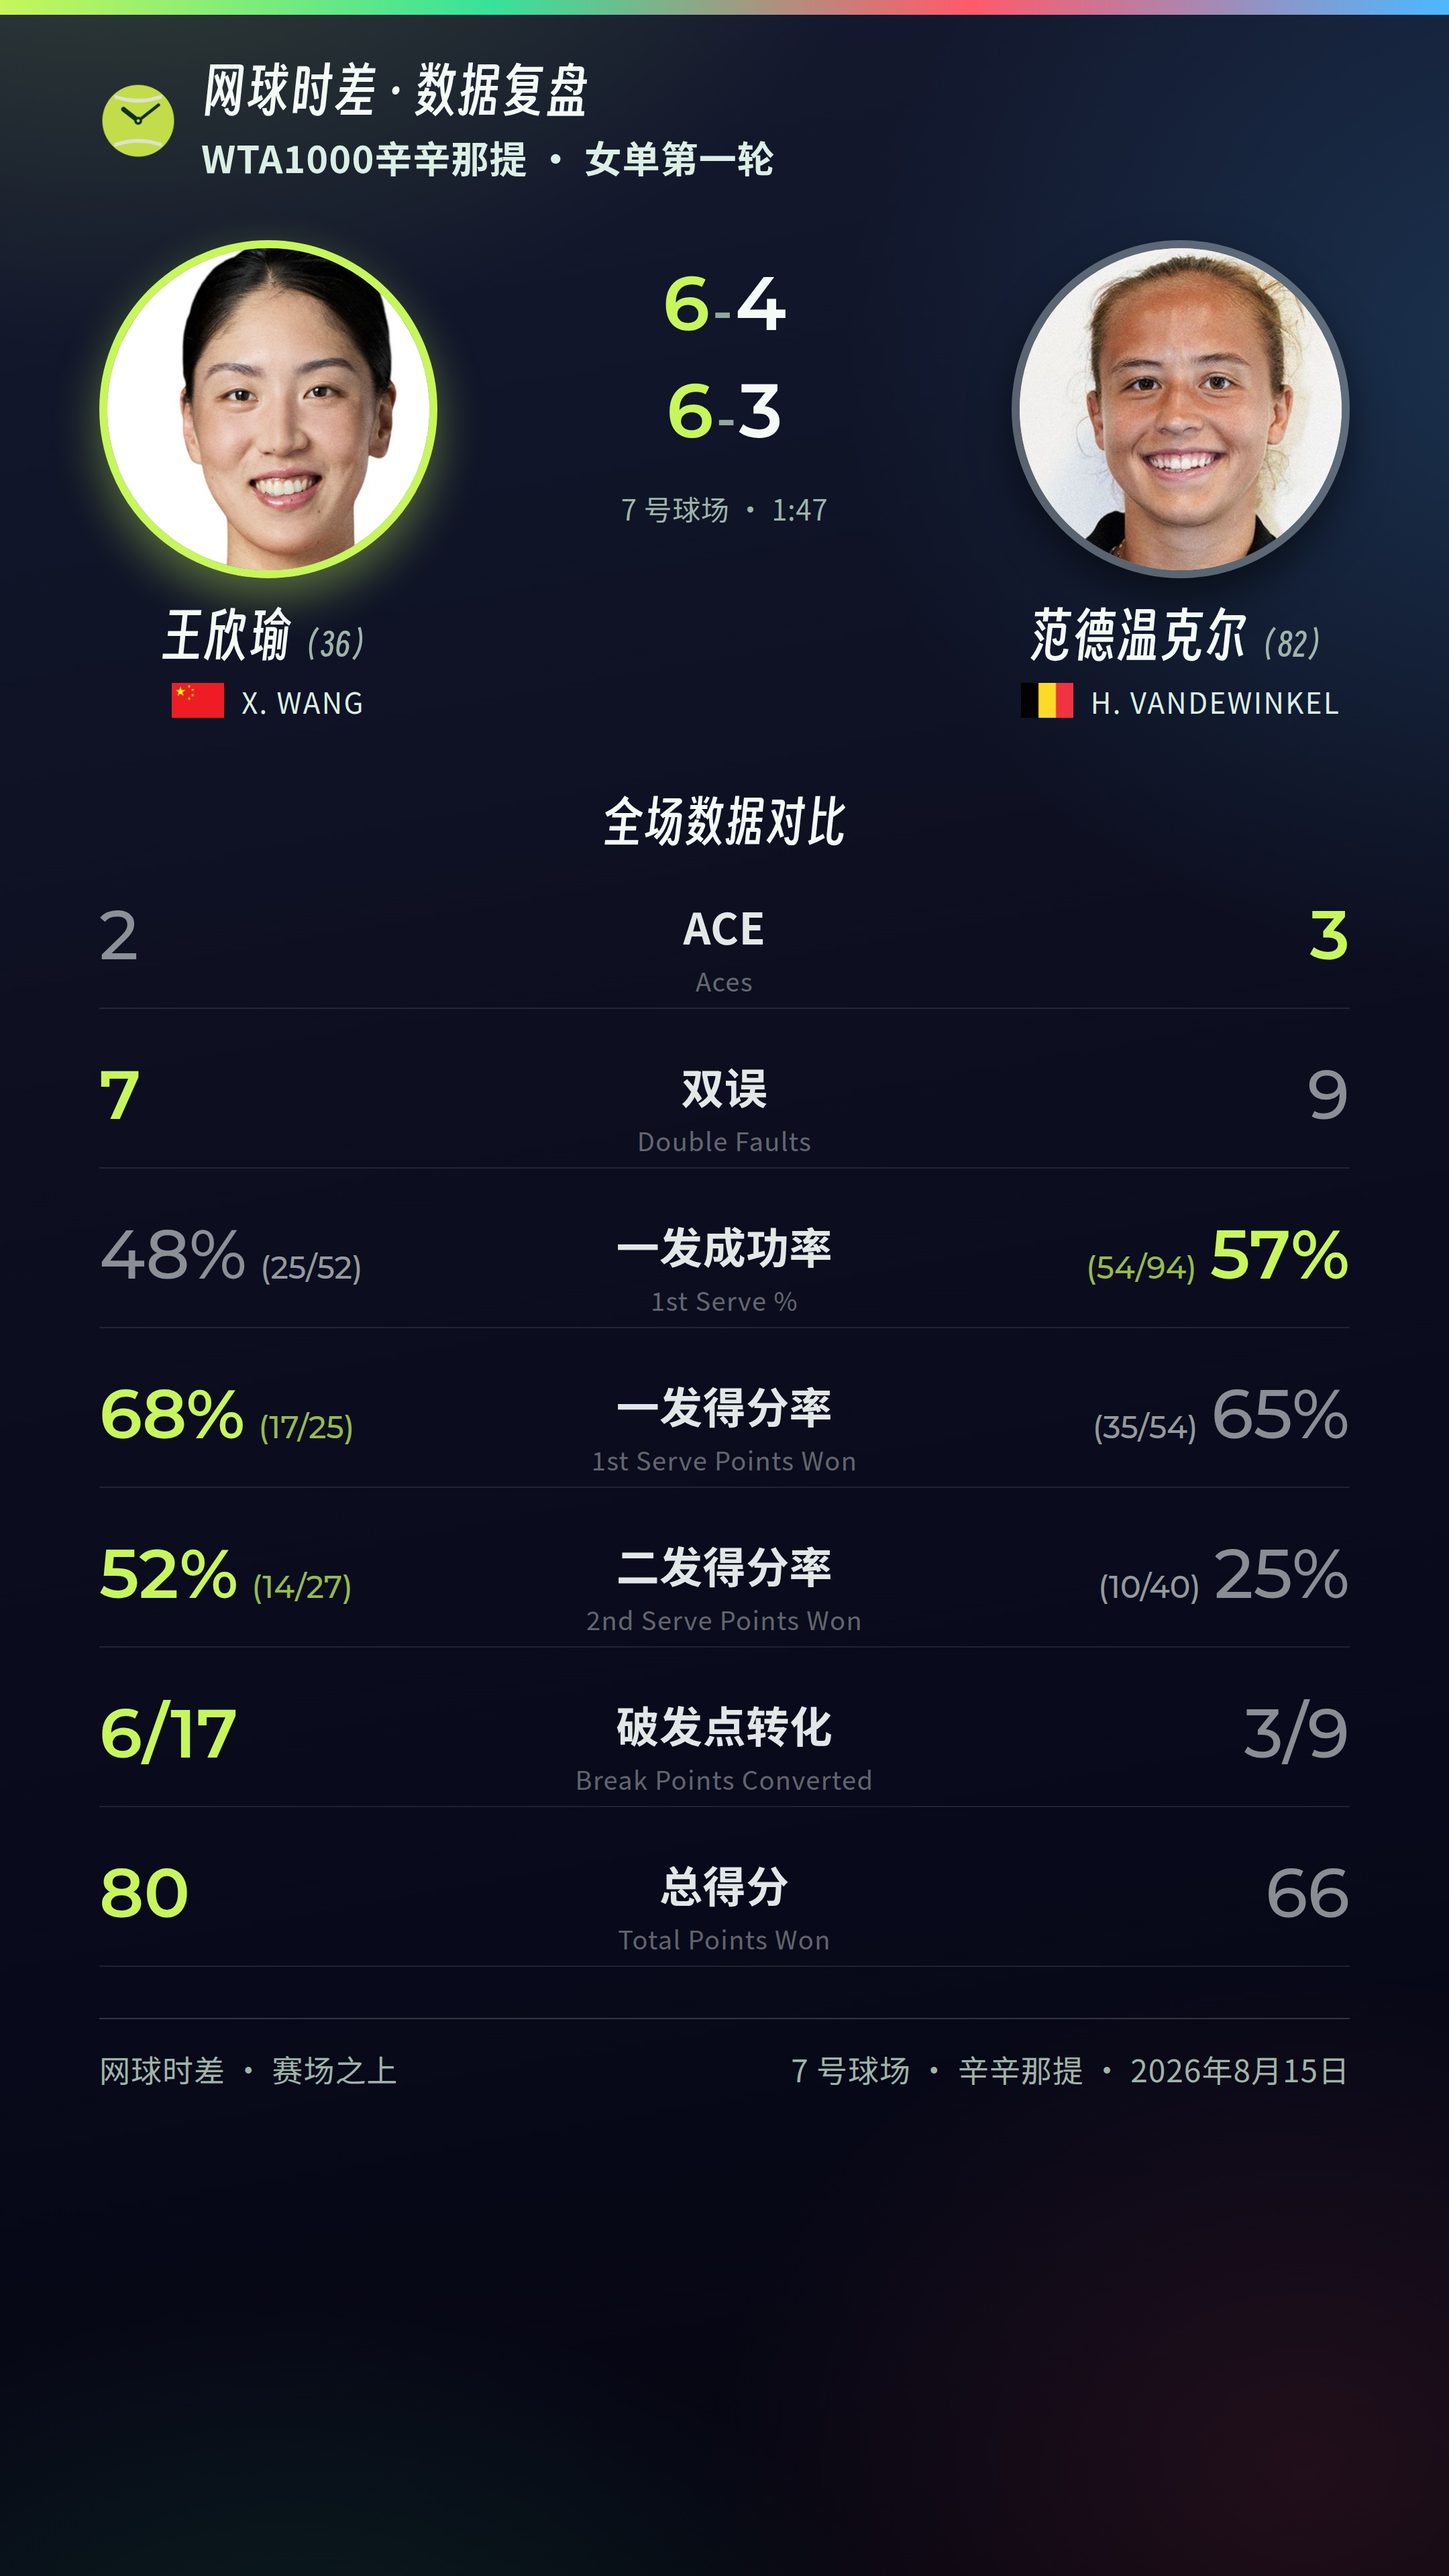
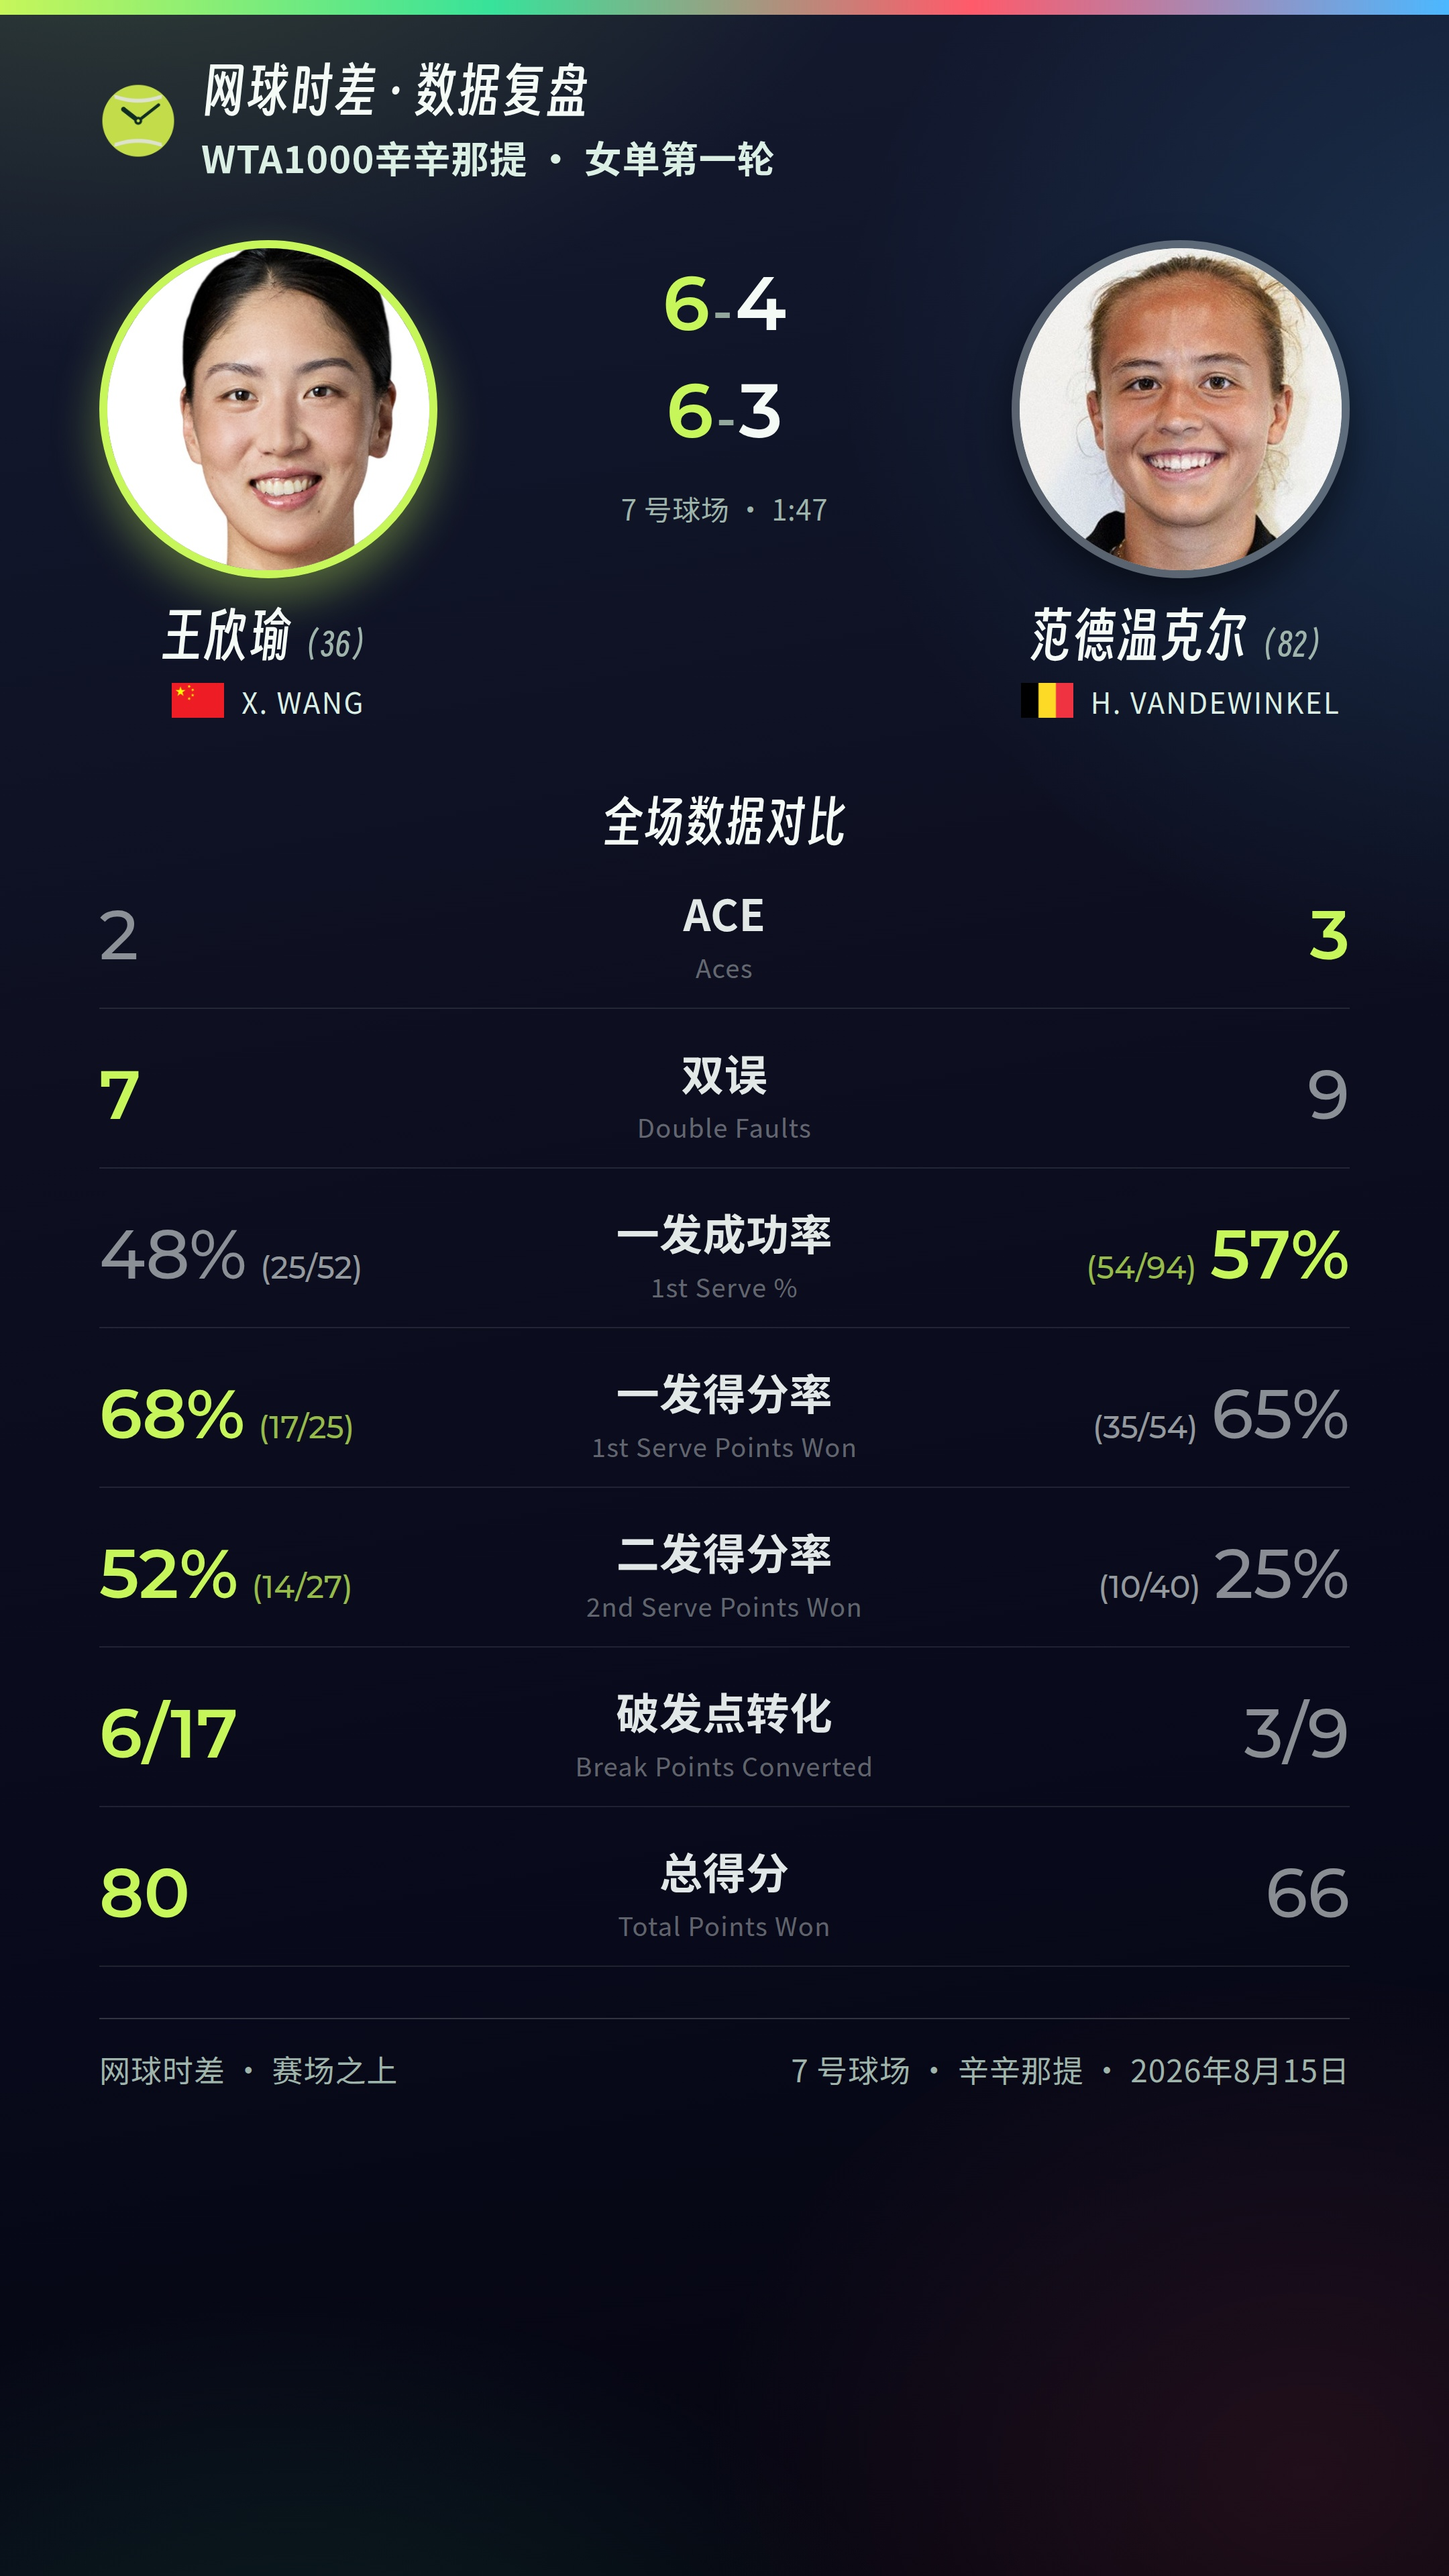
数据统计图：中英那一对跟数字垂直居中（-11px → -21px，量出来的）
账号所有者 2026-08-15 第二次反馈：「把中文往上移，英文在下面，然后它们并行
居中。**垂直居中**」。

上一版的 `top:-11px` 只够把英文塞进去——「中文 + 英文」这一对的光学中心仍然
比两侧那个大号数字**低 18~25px**（2160 空间 ≈ 9~12 个 CSS 像素），整块往下坠。

量法：按分隔线切出每一行，左列（数字）和中列（中英）各取墨迹上下沿，比两个
中心。三档都真渲过：

    top:-20px   每行偏移 [7, 4, 0, 0, 0, 6, 4]    平均 +2.6
    top:-21px   每行偏移 [5, 2, -2, -2, -2, 4, 2]  平均 +0.6   ← 选它
    top:-22px   每行偏移 [3, 0, -4, -4, -4, 2, 0]  平均 -1.4

剩下那 ±5px（≈2.5 个 CSS 像素）是字形本身的差别（`%` 比纯数字高、`6/17` 那道
斜杠更长），不是版式没对齐——再调只会把一部分行调正、另一部分调歪。

行高照旧一个像素没动：分隔线仍然是 1502 / 1740 / 1978 / 2216 / 2454 / 2692 /
2930 ＋页脚 3008。

判据 `test_中英那一对的垂直位置是量出来的一组数` **锁的不是 `top` 一个数，是
量那一次的整组输入**（中文字号 32、英文字号 19、行距 4、位移 −21）：光学中心
由这四个数一起决定，改任何一个 −21 就不再是那个答案了，而歪掉在产物上不报错。
三个方向反向验证过（改 top / 改行距 / 改英文字号，各自当场红）。

全量 1942 passed / 40 skipped。

Claude-Session: https://claude.ai/code/session_01J7yyggNsvVretgAV8eJ1Uq

Changed region(s): [[0.4032, 0.4062, 0.5894, 0.7188], [0.4343, 0.7188, 0.5583, 0.75], [0.4653, 0.3438, 0.5273, 0.375]]

diff --git a/tools/render_stat_card.py b/tools/render_stat_card.py
@@ -129,6 +129,22 @@ wang-vandewinkel 那场 flashscore 报范德温克尔发球总分 95、总得分
 一样**，整张表的首尾像素位置也一模一样。判据在
 `test_每行英文不许把行高撑高`。
 
+⚠ **`top` 那个 −21px 是量出来的，别按感觉调。** 账号所有者 2026-08-15 第二次
+反馈：「把中文往上移，英文在下面，然后它们并行居中。垂直居中」——第一版写的
+−11px 只够把英文塞进去，「中文 + 英文」这一对的光学中心仍然比两侧那个大号数字
+**低 18~25px**（2160 空间，也就是 9~12 个 CSS 像素），看起来是整块往下坠。
+
+量法：按分隔线切出每一行，左列（数字）和中列（中英）各取墨迹的上下沿，比两个
+中心。三档扫下来——
+
+    top:-20px   每行偏移 [7, 4, 0, 0, 0, 6, 4]   平均 +2.6
+    top:-21px   每行偏移 [5, 2, -2, -2, -2, 4, 2] 平均 +0.6   ← 选它
+    top:-22px   每行偏移 [3, 0, -4, -4, -4, 2, 0] 平均 -1.4
+
+剩下那 ±5px（2160 空间 ≈ 2.5 个 CSS 像素）是字形本身的差别（`%` 比纯数字高、
+`6/17` 那道斜杠更长），不是版式没对齐——**再调只会把一部分行调正、另一部分
+调歪**。判据在 `test_中英那一对要和数字垂直居中`。
+
 ⚠ 英文的**水平**居中不是靠 `left:0;right:0`——`.slabel` 那一格的宽度是按
 中文文字撑出来的（`white-space:nowrap` + `grid` 的 `auto` 列），而英文往往更宽
 （`Break Points Converted` 比「破发点转化」宽一截）。撑在格子里会换行，所以用
@@ -445,15 +461,17 @@ body{{color:{vp.TEXT};font-family:'TL Sans SC','Noto Sans CJK SC',sans-serif;
 .sval.lead .sfrac{{color:rgba(198,246,90,.75)}}
 /* 中文标签 + 底下那行英文。⚠ 两条都不许动，理由见模块 docstring
    「中文标签底下那行英文」那节：
-   - `.slabel` 的 `top:-11px` 是 `position:relative` 的**视觉**位移，不改
+   - `.slabel` 的 `top:-21px` 是 `position:relative` 的**视觉**位移，不改
      行盒高度；它把「中文 + 英文」这一对在原来的行高里顶回视觉居中。
+     ⚠ 这个数是量出来的（扫墨迹比两个光学中心，−20/−21/−22 三档都渲过），
+     不是拍的；改它之前先读 docstring 里那张表。
    - `.slabel-en` 是 `position:absolute`，**不参与行盒高度计算**——这是
      「每行的高度不变」唯一的实现方式。改成流内每行就会长高。
    `left:50%` + `translateX(-50%)` 而不是 `left:0;right:0`：这一格的宽度是
    中文撑出来的，英文更宽（`Break Points Converted`），撑在格子里会换行。 */
 .slabel{{font-family:'TL Sans SC',sans-serif;font-size:32px;font-weight:700;
  color:rgba(244,251,247,.92);letter-spacing:.3px;text-align:center;white-space:nowrap;
- position:relative;top:-11px}}
+ position:relative;top:-21px}}
 .slabel-en{{position:absolute;top:100%;left:50%;transform:translateX(-50%);
  margin-top:4px;white-space:nowrap;font-size:19px;font-weight:400;
  letter-spacing:.7px;color:rgba(244,251,247,.40)}}

diff --git a/tests/test_stat_card.py b/tests/test_stat_card.py
@@ -258,6 +258,46 @@ def test_每行英文不许把行高撑高():
         "「中文 + 英文」这一对整体偏下，压到分隔线上")
 
 
+def test_中英那一对的垂直位置是量出来的一组数():
+    """账号所有者 2026-08-15 第二次反馈：「把中文往上移，英文在下面，然后它们
+    并行居中。**垂直居中**」。
+
+    第一版 `top:-11px` 只够把英文塞进去——「中文 + 英文」这一对的光学中心仍然
+    比两侧那个大号数字低 18~25px（2160 空间），整块往下坠。−20/−21/−22 三档
+    都真渲过、扫墨迹比过两个中心，−21px 的平均偏移 +0.6px 最正（那张表在
+    `render_stat_card` 的 docstring 里）。
+
+    ⚠ **这条锁的不是 `top` 一个数，是量那一次的整组输入。** 光学中心由
+    「中文字号 + 英文字号 + 两行间距 + top」四个数一起决定，改任何一个，
+    −21px 就不再是量出来的那个答案了——而**歪掉在产物上不报错**，只是每一行
+    的标签整体偏一点，谁也不会注意到。所以四个一起钉：动其中任何一个，这条
+    当场红，逼着重量一次而不是顺手改个数。
+    """
+    src = Path(sc.__file__).read_text(encoding="utf-8")
+
+    def decl(rule: str, prop: str) -> str:
+        m = re.search(rf"\n\.{rule}\{{{{([^}}]*)\}}}}", src)
+        assert m, f"CSS 里没有 .{rule} 规则"
+        got = re.search(rf"(?<![\w-]){prop}:(-?[\d.]+)px", m.group(1).replace(" ", ""))
+        assert got, f".{rule} 少了 {prop}"
+        return got.group(1)
+
+    measured = {
+        (".slabel", "top"): "-21",          # 量出来的那个位移
+        (".slabel", "font-size"): "32",     # 下面三个是量那一次的前提
+        ("slabel-en", "font-size"): "19",
+        ("slabel-en", "margin-top"): "4",
+    }
+    for (rule, prop), want in measured.items():
+        got = decl(rule.lstrip("."), prop)
+        assert got == want, (
+            f"`.{rule.lstrip('.')}` 的 {prop} 从 {want}px 变成了 {got}px。"
+            "中英那一对的垂直居中是拿这四个数一起量出来的（中文字号 32、"
+            "英文字号 19、行距 4、位移 -21），改任何一个都要照 "
+            "render_stat_card 的 docstring 重新扫一次墨迹中心，"
+            "不是顺手把这条测试里的数字改掉")
+
+
 def test_数据图文件名两处要同源():
     """`build_match_reel.py` 渲出 `stat_card.jpg`，`push_reel.py` 找同名文件
     决定推不推这一屏——两处各写一份字符串必分叉（`POSTER_NAME` 那次已经
